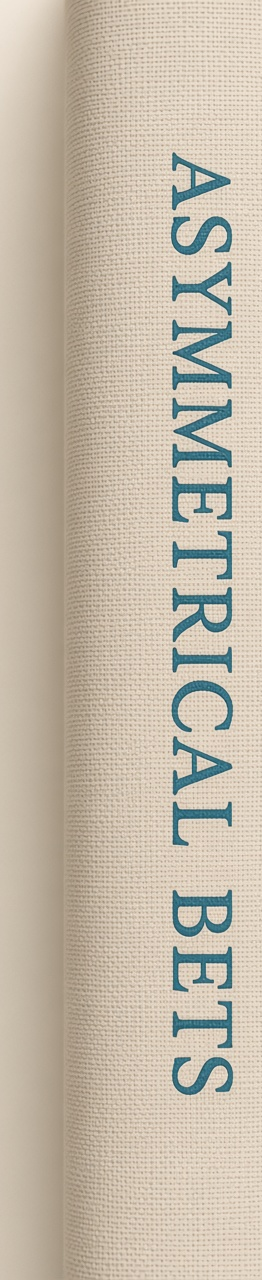
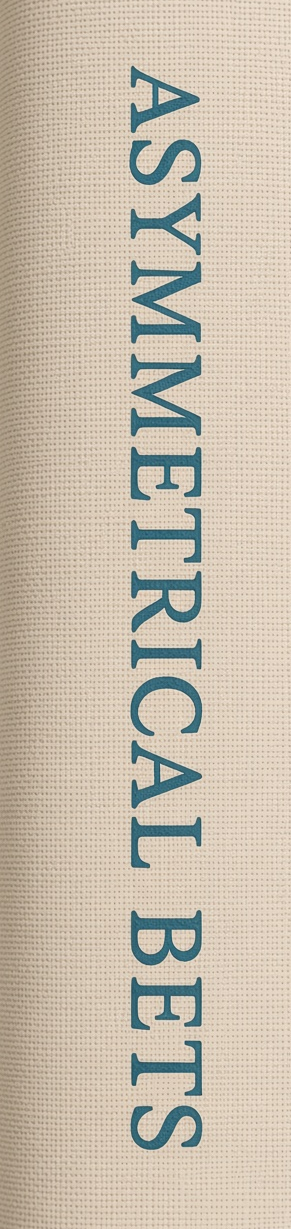
fix(shelf): photo-real book and living ridges, no CSS frames
Books sit in the 28x96 spine slot with cover fill so cream studio letterbox is gone. Living drops the beige slip marks and uses the same aligned ridge of photo objects. Film posters stay contain.

diff --git a/aileena-new/app/blog/watch-listening-shelf/WatchShelf.tsx b/aileena-new/app/blog/watch-listening-shelf/WatchShelf.tsx
@@ -43,19 +43,31 @@ function OpenHref({
   );
 }
 
-function ShelfObject({ item, selected }: { item: ShelfItem; selected: boolean }) {
+function coverKindClass(kind: ShelfItem['coverKind']): string {
+  if (kind === 'still') return ' is-still';
+  if (kind === 'spine') return ' is-spine';
+  if (kind === 'object') return ' is-object';
+  return '';
+}
+
+function ShelfObject({ item }: { item: ShelfItem }) {
   const still = item.coverKind === 'still';
   const spinePhoto = item.coverKind === 'spine';
+  const objectPhoto = item.coverKind === 'object';
+  const ridgeFill = spinePhoto || objectPhoto;
   return (
-    <span className={`watch-obj watch-obj--${item.object}${spinePhoto ? ' is-spine' : ''}`} aria-hidden={item.object !== 'cover'}>
+    <span
+      className={`watch-obj watch-obj--${item.object}${coverKindClass(item.coverKind)}`}
+      aria-hidden={item.object !== 'cover'}
+    >
       {item.object === 'cover' && item.cover ? (
         <Image
           src={item.cover}
           alt=""
-          width={spinePhoto ? 90 : still ? 160 : 72}
-          height={spinePhoto ? 160 : still ? 90 : 108}
-          className={`watch-obj-cover${still ? ' is-still' : ''}${spinePhoto ? ' is-spine' : ''}`}
-          style={{ objectFit: 'contain' }}
+          width={spinePhoto ? 90 : still || objectPhoto ? 160 : 72}
+          height={spinePhoto ? 160 : still || objectPhoto ? 90 : 108}
+          className={`watch-obj-cover${coverKindClass(item.coverKind)}`}
+          style={{ objectFit: ridgeFill ? 'cover' : 'contain' }}
         />
       ) : null}
       {item.object === 'cassette' ? (
@@ -67,7 +79,6 @@ function ShelfObject({ item, selected }: { item: ShelfItem; selected: boolean })
         </span>
       ) : null}
       {item.object === 'spine' ? <span className="watch-spine">{item.title}</span> : null}
-      {item.object === 'slip' ? <span className="watch-slip-mark" data-on={selected ? '1' : undefined} /> : null}
     </span>
   );
 }
@@ -143,7 +154,11 @@ export default function WatchShelf({ owner }: { owner: boolean }) {
                     {group.label}
                   </h2>
                   {rows.map((row) => {
-                    const ridge = row.row === 'watch' || row.row === 'notes' || row.row === 'video';
+                    const ridge =
+                      row.row === 'watch' ||
+                      row.row === 'notes' ||
+                      row.row === 'video' ||
+                      row.row === 'living';
                     return (
                       <div key={row.row} className="watch-shelf-lane">
                         {row.label ? (
@@ -160,12 +175,12 @@ export default function WatchShelf({ owner }: { owner: boolean }) {
                                 <button
                                   type="button"
                                   id={item.id}
-                                  className={`watch-shelf-item${on ? ' is-on' : ''}${item.featured ? ' is-featured' : ''}${item.coverKind === 'still' ? ' is-still' : ''}${item.coverKind === 'spine' ? ' is-spine' : ''}`}
+                                  className={`watch-shelf-item${on ? ' is-on' : ''}${item.featured ? ' is-featured' : ''}${coverKindClass(item.coverKind)}`}
                                   aria-pressed={on}
                                   aria-current={on ? 'true' : undefined}
                                   onClick={() => select(item.id)}
                                 >
-                                  <ShelfObject item={item} selected={on} />
+                                  <ShelfObject item={item} />
                                   <span className="watch-shelf-item-copy">
                                     <span className="watch-shelf-item-title">{item.title}</span>
                                     <span className="watch-shelf-item-type">{item.type}</span>
@@ -189,15 +204,27 @@ export default function WatchShelf({ owner }: { owner: boolean }) {
                 <Image
                   src={selected.cover}
                   alt=""
-                  width={selected.coverKind === 'still' ? 320 : selected.coverKind === 'spine' ? 180 : 220}
-                  height={selected.coverKind === 'still' ? 180 : selected.coverKind === 'spine' ? 320 : 320}
-                  className={`watch-shelf-detail-image${selected.coverKind === 'still' ? ' is-still' : ''}${selected.coverKind === 'spine' ? ' is-spine' : ''}`}
+                  width={
+                    selected.coverKind === 'still' || selected.coverKind === 'object'
+                      ? 320
+                      : selected.coverKind === 'spine'
+                        ? 180
+                        : 220
+                  }
+                  height={
+                    selected.coverKind === 'still' || selected.coverKind === 'object'
+                      ? 180
+                      : selected.coverKind === 'spine'
+                        ? 320
+                        : 320
+                  }
+                  className={`watch-shelf-detail-image${coverKindClass(selected.coverKind)}`}
                   style={{ objectFit: 'contain' }}
                 />
               </div>
             ) : (
               <div className="watch-shelf-detail-object" data-object={selected.object}>
-                <ShelfObject item={selected} selected />
+                <ShelfObject item={selected} />
               </div>
             )}
             <p className="watch-shelf-detail-kicker">

diff --git a/aileena-new/lib/watchListeningShelf.ts b/aileena-new/lib/watchListeningShelf.ts
@@ -9,7 +9,7 @@ export type ShelfSection = 'listen' | 'watch' | 'read' | 'living';
 export type ShelfType = 'podcast' | 'film' | 'interview' | 'book' | 'note' | 'video';
 export type ShelfObject = 'cover' | 'cassette' | 'spine' | 'slip';
 export type ShelfRow = 'listen' | 'watch' | 'notes' | 'video' | 'living';
-export type ShelfCoverKind = 'poster' | 'still' | 'spine';
+export type ShelfCoverKind = 'poster' | 'still' | 'spine' | 'object';
 
 export type ShelfItem = {
   id: string;
@@ -192,19 +192,69 @@ export const FILM_RECS = [
 ];
 
 export const EURO_LIFE_GUIDE = [
-  { title: 'Urban roam, not tourism', label: 'walk', body: 'Conversation over landmarks.' },
-  { title: 'See in black and white', label: 'eye', body: 'Less color, more decision.' },
-  { title: 'Language scraps', label: 'FR / IT', body: 'Enough to catch 20% of dialogue.' },
-  { title: 'Wardrobe as Bond cool', label: 'cut', body: 'Fewer colors, better cut.' },
-  { title: 'Slow museum', label: 'one room', body: 'Not the whole building.' },
-  { title: 'Table as ritual', label: 'kitchen', body: 'An ordinary meal, staged.' },
+  {
+    title: 'Urban roam, not tourism',
+    label: 'walk',
+    body: 'Conversation over landmarks.',
+    image: '/shelf/living-urban-roam.jpg',
+  },
+  {
+    title: 'See in black and white',
+    label: 'eye',
+    body: 'Less color, more decision.',
+    image: '/shelf/living-black-and-white.jpg',
+  },
+  {
+    title: 'Language scraps',
+    label: 'FR / IT',
+    body: 'Enough to catch 20% of dialogue.',
+    image: '/shelf/living-language.jpg',
+  },
+  {
+    title: 'Wardrobe as Bond cool',
+    label: 'cut',
+    body: 'Fewer colors, better cut.',
+    image: '/shelf/living-wardrobe.jpg',
+  },
+  {
+    title: 'Slow museum',
+    label: 'one room',
+    body: 'Not the whole building.',
+    image: '/shelf/living-museum.jpg',
+  },
+  {
+    title: 'Table as ritual',
+    label: 'kitchen',
+    body: 'An ordinary meal, staged.',
+    image: '/shelf/living-table.jpg',
+  },
 ];
 
 export const LIFESTYLE_RECS = [
-  { title: 'Urban drift diary', label: 'weekly', body: 'Walk. Note light. Not a trip.' },
-  { title: 'One letter or collage page', label: 'paper', body: 'One page a week.' },
-  { title: 'Soundtrack as room', label: 'listen', body: 'Closer to cinema than algorithm pop.' },
-  { title: 'Watch in pairs, not piles', label: 'pace', body: 'Texture over binge.' },
+  {
+    title: 'Urban drift diary',
+    label: 'weekly',
+    body: 'Walk. Note light. Not a trip.',
+    image: '/shelf/living-diary.jpg',
+  },
+  {
+    title: 'One letter or collage page',
+    label: 'paper',
+    body: 'One page a week.',
+    image: '/shelf/living-letter.jpg',
+  },
+  {
+    title: 'Soundtrack as room',
+    label: 'listen',
+    body: 'Closer to cinema than algorithm pop.',
+    image: '/shelf/living-soundtrack.jpg',
+  },
+  {
+    title: 'Watch in pairs, not piles',
+    label: 'pace',
+    body: 'Texture over binge.',
+    image: '/shelf/living-watch-pairs.jpg',
+  },
 ];
 
 export const CHANNEL_RECS = [
@@ -420,7 +470,9 @@ export const SHELF_ITEMS: ShelfItem[] = [
     row: 'living' as const,
     creator: item.label,
     note: item.body,
-    object: 'slip' as const,
+    cover: item.image,
+    coverKind: 'object' as const,
+    object: 'cover' as const,
   })),
   ...LIFESTYLE_RECS.map((item) => ({
     id: slugify(item.title),
@@ -430,7 +482,9 @@ export const SHELF_ITEMS: ShelfItem[] = [
     row: 'living' as const,
     creator: item.label,
     note: item.body,
-    object: 'slip' as const,
+    cover: item.image,
+    coverKind: 'object' as const,
+    object: 'cover' as const,
   })),
 ];
 

diff --git a/aileena-new/scripts/verify-watch-shelf.ts b/aileena-new/scripts/verify-watch-shelf.ts
@@ -1,13 +1,16 @@
 #!/usr/bin/env tsx
 /**
- * Watch / listening shelf: films include Ladies First (2026); books + videos are photo-real spines.
+ * Watch / listening shelf: films stay posters; books + videos are photo-real spines;
+ * living is photo-real objects with no CSS slip frames.
  * Run: pnpm verify:watch-shelf
  */
 import { existsSync, readFileSync } from 'node:fs';
 import { join } from 'node:path';
 import {
   DOCUMENTARY_RECS,
+  EURO_LIFE_GUIDE,
   FILM_RECS,
+  LIFESTYLE_RECS,
   SHELF_ITEMS,
   VIDEO_RECS,
   resolveShelfHash,
@@ -30,6 +33,7 @@ function main() {
   const watch = SHELF_ITEMS.filter((item) => item.section === 'watch');
   const videos = SHELF_ITEMS.filter((item) => item.row === 'video');
   const notes = SHELF_ITEMS.filter((item) => item.row === 'notes');
+  const living = SHELF_ITEMS.filter((item) => item.row === 'living');
   const expectedWatch = [
     ...DOCUMENTARY_RECS.map((item) => item.shelfTitle),
     ...FILM_RECS.map((item) => item.shelfTitle),
@@ -73,6 +77,21 @@ function main() {
   const readRows = shelfRowsInSection('read').map((row) => row.row).join(',');
   assert('watch is one row', watchRows === 'watch');
   assert('read rows are notes then video', readRows === 'notes,video');
+  assert(
+    'living ridge uses photo-real objects',
+    living.length === EURO_LIFE_GUIDE.length + LIFESTYLE_RECS.length &&
+      living.every(
+        (item) =>
+          item.coverKind === 'object' &&
+          typeof item.cover === 'string' &&
+          item.cover.startsWith('/shelf/living-'),
+      ),
+    String(living.length),
+  );
+  assert(
+    'living is one ridge row',
+    shelfRowsInSection('living').map((row) => row.row).join(',') === 'living',
+  );
 
   for (const item of SHELF_ITEMS) {
     if (!item.cover) continue;
@@ -82,8 +101,21 @@ function main() {
 
   const ui = read('app/blog/watch-listening-shelf/WatchShelf.tsx');
   const css = read('app/blog/watch-listening-shelf/watch-shelf.css');
-  assert('covers stay object-fit contain', /objectFit:\s*'contain'/.test(ui) && !/objectFit:\s*'cover'/.test(ui));
-  assert('css covers stay contain', /object-fit:\s*contain/.test(css) && !/object-fit:\s*cover/.test(css));
+  assert('living row sits on the ridge', /row\.row === 'living'/.test(ui));
+  assert('no CSS slip frames', !/watch-slip-mark/.test(ui) && !/watch-slip-mark/.test(css));
+  assert(
+    'film posters stay contain; ridge thumbs use cover',
+    /objectFit:\s*'contain'/.test(ui) && /ridgeFill \? 'cover' : 'contain'/.test(ui),
+  );
+  assert(
+    'css film covers stay contain',
+    /\.watch-obj-cover \{[\s\S]*?object-fit:\s*contain/.test(css),
+  );
+  assert(
+    'css spine and living thumbs fill the slot',
+    /\.watch-obj-cover\.is-spine[\s\S]*?object-fit:\s*cover/.test(css) &&
+      /\.watch-obj-cover\.is-object[\s\S]*?object-fit:\s*cover/.test(css),
+  );
   assert('spine photos sit in a fixed ridge slot', /\.watch-obj\.is-spine[\s\S]*height:\s*96px/.test(css));
   assert('later-note placeholder exists', /drop a note later/.test(ui));
 

diff --git a/aileena-new/app/blog/watch-listening-shelf/watch-shelf.css b/aileena-new/app/blog/watch-listening-shelf/watch-shelf.css
@@ -186,13 +186,41 @@
   max-width: 28px;
   max-height: 96px;
   background: transparent;
-  object-fit: contain;
-  object-position: center bottom;
+  object-fit: cover;
+  object-position: center;
+}
+
+.watch-shelf-item.is-object {
+  max-width: 96px;
+}
+
+.watch-obj.is-object {
+  display: flex;
+  align-items: flex-end;
+  justify-content: center;
+  width: 88px;
+  height: 52px;
+}
+
+.watch-obj-cover.is-object {
+  width: 88px;
+  height: 52px;
+  max-width: 88px;
+  max-height: 52px;
+  background: transparent;
+  object-fit: cover;
+  object-position: center;
 }
 
 .watch-shelf-detail-image.is-spine {
   max-width: min(140px, 100%);
   max-height: 280px;
+  background: transparent;
+}
+
+.watch-shelf-detail-image.is-object {
+  max-width: min(320px, 100%);
+  max-height: 220px;
   background: transparent;
 }
 
@@ -263,19 +291,6 @@
   color: var(--arc-teal);
 }
 
-.watch-slip-mark {
-  display: block;
-  width: 72px;
-  height: 44px;
-  border: 1px solid rgba(17, 17, 17, 0.12);
-  background: #f4efe4;
-  box-shadow: 1px 1px 0 rgba(17, 17, 17, 0.06);
-}
-
-.watch-shelf-item.is-on .watch-slip-mark {
-  border-color: var(--arc-teal);
-}
-
 .watch-shelf-detail {
   min-width: 0;
   padding-top: 4px;
@@ -308,8 +323,7 @@
 
 .watch-shelf-detail-object .watch-obj-cover,
 .watch-shelf-detail-object .watch-cassette,
-.watch-shelf-detail-object .watch-spine,
-.watch-shelf-detail-object .watch-slip-mark {
+.watch-shelf-detail-object .watch-spine {
   transform: scale(1.15);
   transform-origin: left bottom;
 }

diff --git a/aileena-new/scripts/capture-watch-shelf.ts b/aileena-new/scripts/capture-watch-shelf.ts
@@ -56,6 +56,17 @@ async function main() {
   if (videoCount !== 7) throw new Error(`expected 7 video spines, got ${videoCount}`);
   await page.screenshot({ path: join(OUT, 'shelf_photo_real_video_ridge.png'), fullPage: true });
 
+  await page.locator('#urban-roam-not-tourism').click();
+  await page.waitForFunction(
+    () =>
+      document.querySelector('[data-testid="watch-shelf-detail-title"]')?.textContent?.trim() ===
+      'Urban roam, not tourism',
+  );
+  await page.waitForTimeout(300);
+  const livingCount = await page.locator('[data-testid="watch-shelf-row-living"] li').count();
+  if (livingCount !== 10) throw new Error(`expected 10 living objects, got ${livingCount}`);
+  await page.screenshot({ path: join(OUT, 'shelf_photo_real_living_ridge.png'), fullPage: true });
+
   const mobile = await browser.newContext({ viewport: { width: 390, height: 844 } });
   const mPage = await mobile.newPage();
   await mPage.goto(`${BASE}/blog/watch-listening-shelf`, { waitUntil: 'networkidle' });
@@ -68,6 +79,7 @@ async function main() {
   console.log(`wrote ${OUT}/shelf_watch_films_unchanged.png`);
   console.log(`wrote ${OUT}/shelf_photo_real_book_spines.png`);
   console.log(`wrote ${OUT}/shelf_photo_real_video_ridge.png`);
+  console.log(`wrote ${OUT}/shelf_photo_real_living_ridge.png`);
   console.log(`wrote ${OUT}/shelf_photo_real_mobile_390.png`);
 }
 
